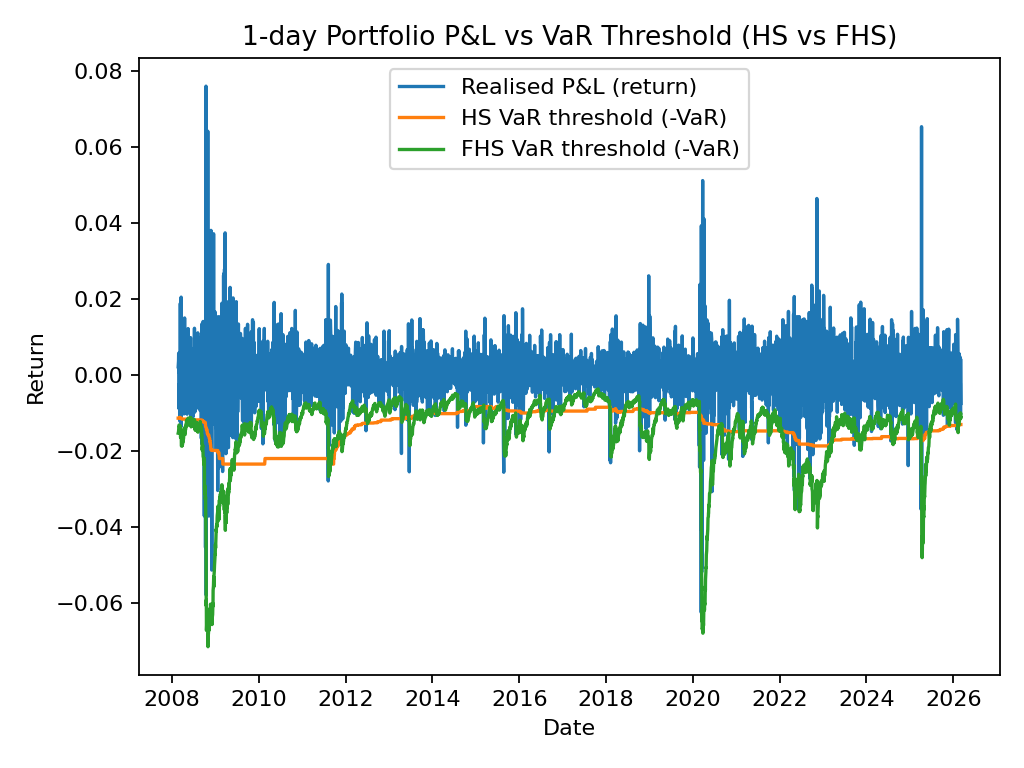
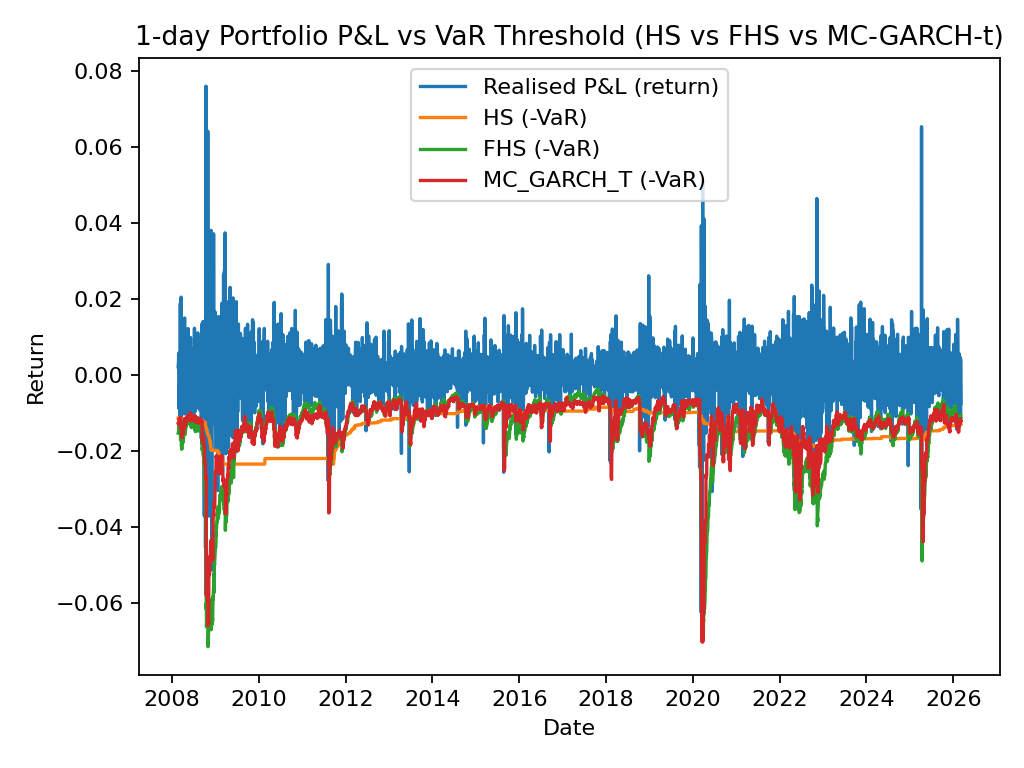
Add MC GARCH(1,1)-t VaR/ES model

Changed region(s): [[0.1562, 0.5, 0.9375, 0.8438], [0.375, 0.0938, 0.7188, 0.2812], [0.125, 0.0312, 1.0, 0.0625]]

diff --git a/src/risk_forecast.py b/src/risk_forecast.py
@@ -8,6 +8,8 @@ import numpy as np
 import pandas as pd
 import matplotlib.pyplot as plt
 
+from arch import arch_model
+
 
 DATA_DIR = Path("data")
 FIG_DIR = Path("reports/figures")
@@ -17,24 +19,22 @@ TABLE_DIR = Path("reports/tables")
 # ---------- utilities ----------
 def load_prices(ticker: str) -> pd.Series:
     path = DATA_DIR / f"{ticker}.csv"
-    df = pd.read_csv(path, parse_dates=["Date"])
-    df = df.sort_values("Date")
-    s = df.set_index("Date")["Close"].astype(float)
-    return s
+    df = pd.read_csv(path, parse_dates=["Date"]).sort_values("Date")
+    return df.set_index("Date")["Close"].astype(float)
 
 
 def log_returns(prices: pd.Series) -> pd.Series:
-    r = np.log(prices).diff()
-    return r.dropna()
+    return np.log(prices).diff().dropna()
 
 
 def ewma_vol(returns: np.ndarray, lam: float = 0.94) -> np.ndarray:
-    """
-    RiskMetrics-style EWMA volatility (proxy for GARCH in a lightweight project).
-    returns: daily log returns
-    """
+    """RiskMetrics-style EWMA volatility."""
     var = np.empty_like(returns)
-    var[0] = np.var(returns[:50]) if len(returns) >= 50 else np.var(returns)
+    if len(returns) >= 50:
+        var[0] = np.var(returns[:50])
+    else:
+        var[0] = np.var(returns)
+
     for t in range(1, len(returns)):
         var[t] = lam * var[t - 1] + (1 - lam) * returns[t - 1] ** 2
     return np.sqrt(np.maximum(var, 1e-18))
@@ -53,6 +53,24 @@ def var_es_from_pnl(pnl: np.ndarray, alpha: float) -> tuple[float, float]:
     return float(q), es
 
 
+def breach_rate(pnl: np.ndarray, var: np.ndarray) -> float:
+    # breach if loss > VaR  <=>  -pnl > var  <=>  pnl < -var
+    return float(np.mean(pnl < -var))
+
+
+def draw_std_student_t(rng: np.random.Generator, nu: float, size: int) -> np.ndarray:
+    """
+    Draw standardized Student-t shocks with E[z]=0, Var[z]=1.
+    For t ~ t_nu, Var[t] = nu/(nu-2) for nu>2.
+    """
+    nu = float(nu)
+    if not np.isfinite(nu) or nu <= 2.05:
+        # Safety fallback to avoid infinite/huge variance; use a conservative df.
+        nu = 8.0
+    t = rng.standard_t(df=nu, size=size)
+    return t / np.sqrt(nu / (nu - 2.0))
+
+
 # ---------- results container ----------
 @dataclass(frozen=True)
 class BacktestResult:
@@ -67,18 +85,65 @@ def historical_simulation(pnl_hist: np.ndarray, alpha: float) -> tuple[float, fl
     return var_es_from_pnl(pnl_hist, alpha)
 
 
-def filtered_historical_simulation(
-    returns_hist: np.ndarray, vol_hist: np.ndarray, vol_next: float, alpha: float
+def filtered_historical_simulation_mc(
+    rng: np.random.Generator,
+    returns_hist: np.ndarray,
+    vol_hist: np.ndarray,
+    vol_next: float,
+    alpha: float,
+    n_mc: int,
 ) -> tuple[float, float]:
     """
     FHS: standardise returns -> resample shocks -> scale by next-day vol.
     """
     z = returns_hist / np.maximum(vol_hist, 1e-12)
     z = z[np.isfinite(z)]
-    shocks = np.random.choice(z, size=len(z), replace=True)
-    r_next = vol_next * shocks
-    pnl = r_next  # assume $1 notional; scaling handled later if needed
-    return var_es_from_pnl(pnl, alpha)
+    shocks = rng.choice(z, size=n_mc, replace=True)
+    pnl_mc = vol_next * shocks
+    return var_es_from_pnl(pnl_mc, alpha)
+
+
+def garch_one_step_forecast_sigma_and_nu(
+    returns_hist: np.ndarray,
+) -> tuple[float, float]:
+    """
+    Fit GARCH(1,1) with Student-t innovations on returns_hist (mean=0),
+    return (sigma_next, nu).
+    """
+    # Mean=Zero keeps it simple and stable for daily returns.
+    am = arch_model(
+        returns_hist,
+        mean="Zero",
+        vol="GARCH",
+        p=1,
+        q=1,
+        dist="StudentsT",
+        rescale=False,
+    )
+    res = am.fit(disp="off")
+    # 1-step ahead forecast variance
+    f = res.forecast(horizon=1, reindex=False)
+    var_next = float(f.variance.values[-1, 0])
+    sigma_next = float(np.sqrt(max(var_next, 1e-18)))
+
+    nu = float(res.params.get("nu", np.nan))
+    return sigma_next, nu
+
+
+def monte_carlo_garch_t(
+    rng: np.random.Generator,
+    sigma_next: float,
+    nu: float,
+    alpha: float,
+    n_mc: int,
+) -> tuple[float, float]:
+    """
+    MC VaR/ES for next-day returns under Student-t innovations:
+      r_{t+1} = sigma_{t+1} * z,   z ~ standardized t_nu
+    """
+    z = draw_std_student_t(rng, nu=nu, size=n_mc)
+    pnl_mc = sigma_next * z
+    return var_es_from_pnl(pnl_mc, alpha)
 
 
 # ---------- pipeline ----------
@@ -87,18 +152,22 @@ def walk_forward_backtest(
     alpha: float = 0.975,
     window: int = 750,
     lam: float = 0.94,
-    n_mc: int = 20000,
+    n_mc_fhs: int = 20000,
+    n_mc_garch: int = 20000,
     seed: int = 42,
-) -> tuple[BacktestResult, BacktestResult]:
+    garch_refit_every: int = 5,
+) -> tuple[BacktestResult, BacktestResult, BacktestResult]:
     """
     Compare:
-      (A) Historical Simulation (HS)
-      (B) Filtered Historical Simulation (FHS) using EWMA vol
+      (A) HS
+      (B) FHS using EWMA vol (resampling standardized shocks)
+      (C) MC-GARCH(1,1) with Student-t innovations
 
-    We forecast next-day VaR/ES each day, then compare against realised P&L.
+    garch_refit_every:
+      Fit GARCH every k steps to avoid extremely slow runtimes.
+      Between refits, reuse last (sigma_next, nu). (Good practical compromise.)
     """
     rng = np.random.default_rng(seed)
-    np.random.seed(seed)  # keeps any legacy np.random usage reproducible
 
     r = returns.values.astype(float)
     dates = returns.index
@@ -106,84 +175,116 @@ def walk_forward_backtest(
     if len(r) <= window + 5:
         raise ValueError(f"Not enough data ({len(r)}) for window={window}.")
 
+    # Precompute EWMA vol for FHS
     vol = ewma_vol(r, lam=lam)
 
     hs_var, hs_es = [], []
     fhs_var, fhs_es = [], []
+    g_var, g_es = [], []
     realised = []
     out_dates = []
 
-    # t indexes the "forecast origin"; we forecast t+1 using info up to t
-    for t in range(window, len(r) - 1):
+    last_sigma_next = None
+    last_nu = None
+
+    for step, t in enumerate(range(window, len(r) - 1)):
         r_hist = r[t - window : t]
         vol_hist = vol[t - window : t]
-        vol_next = vol[t]  # using vol at time t to forecast t+1
+        vol_next = vol[t]  # EWMA sigma at time t for forecasting t+1
 
-        # realised next-day P&L (in return units)
-        pnl_realised = r[t + 1]
+        pnl_realised = r[t + 1]  # return units
 
-        # HS (on historical P&L distribution)
+        # HS
         var_hs, es_hs = historical_simulation(r_hist, alpha)
 
-        # FHS (Monte Carlo via resampling standardized shocks)
-        z = r_hist / np.maximum(vol_hist, 1e-12)
-        z = z[np.isfinite(z)]
-        shocks = rng.choice(z, size=n_mc, replace=True)
-        pnl_mc = vol_next * shocks
-        var_fhs, es_fhs = var_es_from_pnl(pnl_mc, alpha)
+        # FHS (EWMA-filtered, MC via resampling)
+        var_fhs, es_fhs = filtered_historical_simulation_mc(
+            rng=rng,
+            returns_hist=r_hist,
+            vol_hist=vol_hist,
+            vol_next=vol_next,
+            alpha=alpha,
+            n_mc=n_mc_fhs,
+        )
+
+        # MC-GARCH-t
+        do_refit = (step % max(int(garch_refit_every), 1) == 0) or (last_sigma_next is None)
+        if do_refit:
+            sigma_next, nu = garch_one_step_forecast_sigma_and_nu(r_hist)
+            last_sigma_next, last_nu = sigma_next, nu
+
+        var_g, es_g = monte_carlo_garch_t(
+            rng=rng,
+            sigma_next=float(last_sigma_next),
+            nu=float(last_nu),
+            alpha=alpha,
+            n_mc=n_mc_garch,
+        )
 
         hs_var.append(var_hs)
         hs_es.append(es_hs)
         fhs_var.append(var_fhs)
         fhs_es.append(es_fhs)
+        g_var.append(var_g)
+        g_es.append(es_g)
+
         realised.append(pnl_realised)
         out_dates.append(dates[t + 1])
 
     idx = pd.DatetimeIndex(out_dates)
-    hs = BacktestResult(idx, np.array(realised), np.array(hs_var), np.array(hs_es))
-    fhs = BacktestResult(idx, np.array(realised), np.array(fhs_var), np.array(fhs_es))
-    return hs, fhs
+    realised_arr = np.array(realised, dtype=float)
 
-
-def breach_rate(pnl: np.ndarray, var: np.ndarray) -> float:
-    # breach if loss > VaR  <=>  -pnl > var  <=>  pnl < -var
-    return float(np.mean(pnl < -var))
+    hs = BacktestResult(idx, realised_arr, np.array(hs_var), np.array(hs_es))
+    fhs = BacktestResult(idx, realised_arr, np.array(fhs_var), np.array(fhs_es))
+    garch_t = BacktestResult(idx, realised_arr, np.array(g_var), np.array(g_es))
+    return hs, fhs, garch_t
 
 
 def main() -> None:
     FIG_DIR.mkdir(parents=True, exist_ok=True)
     TABLE_DIR.mkdir(parents=True, exist_ok=True)
 
-    # Simple portfolio: 60% SPY, 30% TLT, 10% GLD
+    # Portfolio: 60% SPY, 30% TLT, 10% GLD
     weights = {"SPY": 0.60, "TLT": 0.30, "GLD": 0.10}
 
     rets = []
-    for tkr, _w in weights.items():
+    for tkr in weights:
         p = load_prices(tkr)
-        r = log_returns(p).rename(tkr)
-        rets.append(r)
+        rets.append(log_returns(p).rename(tkr))
 
     df = pd.concat(rets, axis=1, join="inner").dropna()
     port_r = (df * pd.Series(weights)).sum(axis=1)
     port_r.name = "Portfolio"
 
     alpha = 0.975
-    hs, fhs = walk_forward_backtest(
-        port_r, alpha=alpha, window=750, lam=0.94, n_mc=20000, seed=42
+    window = 750
+
+    hs, fhs, garch_t = walk_forward_backtest(
+        port_r,
+        alpha=alpha,
+        window=window,
+        lam=0.94,
+        n_mc_fhs=20000,
+        n_mc_garch=20000,
+        seed=42,
+        garch_refit_every=5,  # speed-friendly; set to 1 for strict refit-daily
     )
 
     hs_br = breach_rate(hs.realised_pnl, hs.var)
     fhs_br = breach_rate(fhs.realised_pnl, fhs.var)
+    g_br = breach_rate(garch_t.realised_pnl, garch_t.var)
 
-    print("Backtest summary (1-day, return units, $1 notional):")
-    print(f"alpha={alpha:.3f} window=750 n_obs={len(hs.dates)}")
-    print(f"HS  breach_rate = {hs_br:.4f} (expected ~ {1 - alpha:.4f})")
-    print(f"FHS breach_rate = {fhs_br:.4f} (expected ~ {1 - alpha:.4f})")
-
-    # ---------- Table: summary CSV ----------
     n_obs = len(hs.dates)
     expected = (1 - alpha) * n_obs
 
+    print("Backtest summary (1-day, return units, $1 notional):")
+    print(f"alpha={alpha:.3f} window={window} n_obs={n_obs}")
+    print(f"Expected breach rate ~ {1 - alpha:.4f}")
+    print(f"HS         breach_rate = {hs_br:.4f}")
+    print(f"FHS (EWMA)  breach_rate = {fhs_br:.4f}")
+    print(f"MC_GARCH_T  breach_rate = {g_br:.4f}")
+
+    # ---------- Table: summary CSV ----------
     summary = pd.DataFrame(
         [
             {
@@ -206,6 +307,16 @@ def main() -> None:
                 "avg_var": float(fhs.var.mean()),
                 "avg_es": float(fhs.es.mean()),
             },
+            {
+                "model": "MC_GARCH_T",
+                "alpha": alpha,
+                "n_obs": n_obs,
+                "breaches": int((garch_t.realised_pnl < -garch_t.var).sum()),
+                "breach_rate": float(g_br),
+                "expected_breaches": float(expected),
+                "avg_var": float(garch_t.var.mean()),
+                "avg_es": float(garch_t.es.mean()),
+            },
         ]
     )
 
@@ -216,9 +327,10 @@ def main() -> None:
     # ---------- Figure 1: realised P&L vs -VaR ----------
     plt.figure()
     plt.plot(hs.dates, hs.realised_pnl, label="Realised P&L (return)")
-    plt.plot(hs.dates, -hs.var, label="HS VaR threshold (-VaR)")
-    plt.plot(fhs.dates, -fhs.var, label="FHS VaR threshold (-VaR)")
-    plt.title("1-day Portfolio P&L vs VaR Threshold (HS vs FHS)")
+    plt.plot(hs.dates, -hs.var, label="HS (-VaR)")
+    plt.plot(fhs.dates, -fhs.var, label="FHS (-VaR)")
+    plt.plot(garch_t.dates, -garch_t.var, label="MC_GARCH_T (-VaR)")
+    plt.title("1-day Portfolio P&L vs VaR Threshold (HS vs FHS vs MC-GARCH-t)")
     plt.xlabel("Date")
     plt.ylabel("Return")
     plt.legend()
@@ -235,7 +347,9 @@ def main() -> None:
     plt.plot(hs.dates, -hs.es, label="HS (-ES)")
     plt.plot(fhs.dates, -fhs.var, label="FHS (-VaR)")
     plt.plot(fhs.dates, -fhs.es, label="FHS (-ES)")
-    plt.title("1-day Portfolio P&L vs VaR/ES Thresholds (HS vs FHS)")
+    plt.plot(garch_t.dates, -garch_t.var, label="MC_GARCH_T (-VaR)")
+    plt.plot(garch_t.dates, -garch_t.es, label="MC_GARCH_T (-ES)")
+    plt.title("1-day Portfolio P&L vs VaR/ES Thresholds")
     plt.xlabel("Date")
     plt.ylabel("Return")
     plt.legend()
@@ -247,6 +361,7 @@ def main() -> None:
 
     # ---------- Figure 2: rolling breach rate ----------
     roll = 250
+
     hs_b = (
         (pd.Series(hs.realised_pnl, index=hs.dates) < -pd.Series(hs.var, index=hs.dates))
         .astype(int)
@@ -260,13 +375,23 @@ def main() -> None:
         .astype(int)
         .rename("FHS_breach")
     )
+    g_b = (
+        (
+            pd.Series(garch_t.realised_pnl, index=garch_t.dates)
+            < -pd.Series(garch_t.var, index=garch_t.dates)
+        )
+        .astype(int)
+        .rename("MC_GARCH_T_breach")
+    )
 
     hs_roll = hs_b.rolling(roll).mean()
     fhs_roll = fhs_b.rolling(roll).mean()
+    g_roll = g_b.rolling(roll).mean()
 
     plt.figure()
     plt.plot(hs_roll.index, hs_roll.values, label=f"HS rolling breach rate ({roll}d)")
     plt.plot(fhs_roll.index, fhs_roll.values, label=f"FHS rolling breach rate ({roll}d)")
+    plt.plot(g_roll.index, g_roll.values, label=f"MC_GARCH_T rolling breach rate ({roll}d)")
     plt.axhline(1 - alpha, linestyle="--", label="Expected")
     plt.title("Rolling VaR Breach Rate")
     plt.xlabel("Date")
